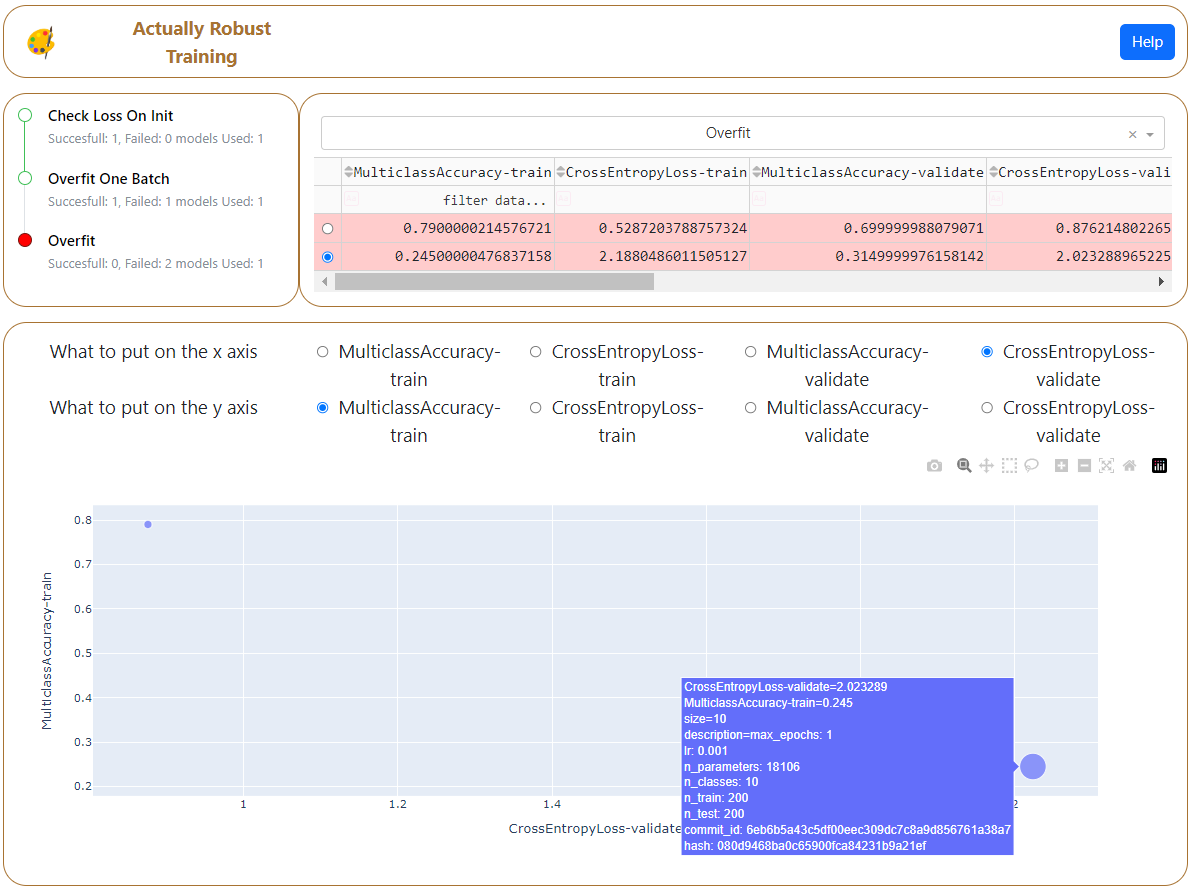
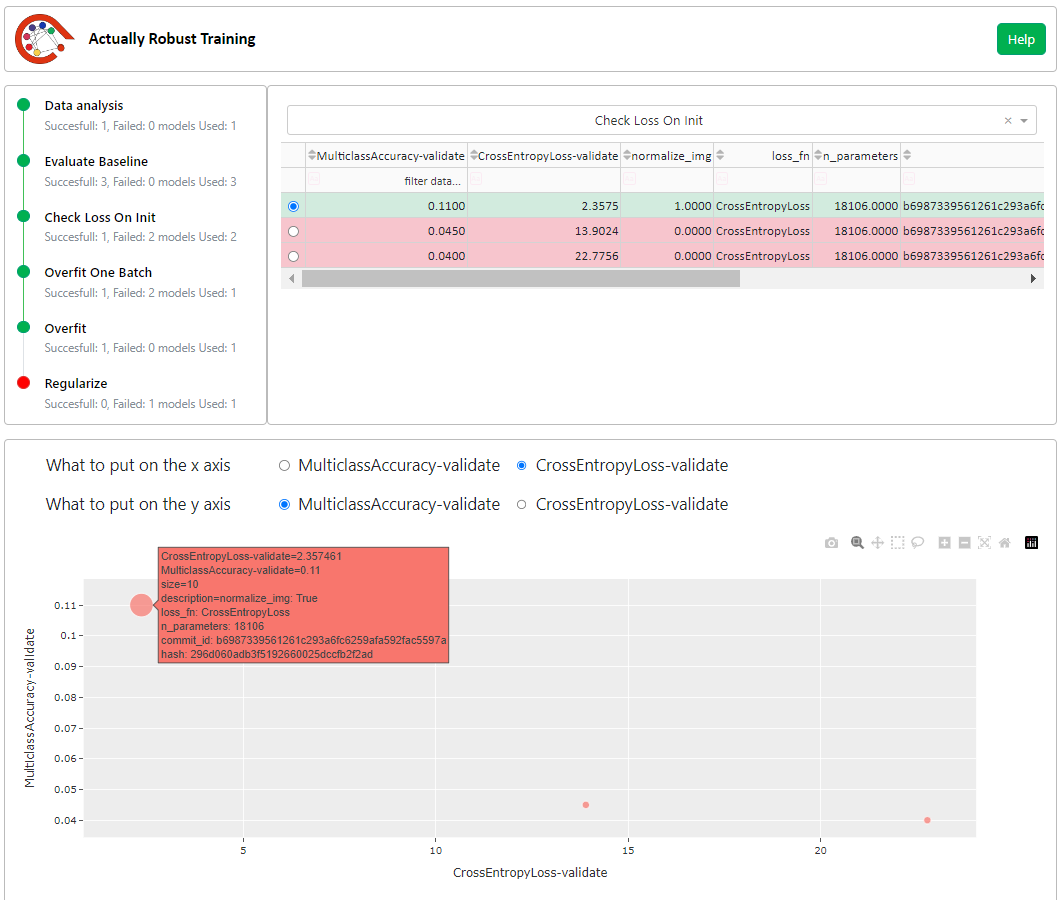
make dashboard pretty

diff --git a/art/dashboard/assets/timeline.css b/art/dashboard/assets/timeline.css
@@ -1,5 +1,11 @@
 .mantine-Timeline-itemBullet {
 
-    background-color: red;
-    border: 2px solid #7a1912;
+    background-color: #FF0000;
+    border: 2px solid #DC3230;
+}
+
+.mantine-Timeline-itemBullet[data-active="true"] {
+
+    background-color: #00B050;
+    border: 2px solid #009E73;
 }

diff --git a/art/dashboard/layout.py b/art/dashboard/layout.py
@@ -53,16 +53,17 @@ def get_navbar():
                     dbc.Row(
                         [
                             dbc.Col(
-                                html.Img(
-                                    src=get_asset_url("pallet.jpg"), height="60ex"
-                                ),
+                                html.Img(src=get_asset_url("art.png"), height="60ex"),
                                 width=3,
                             ),
                             dbc.Col(
                                 html.Div(
                                     "Actually Robust Training",
                                     className="text-xl-center fs-5 fw-bold",
-                                    style={"color": "#a87332"},
+                                    style={
+                                        "color": "#000000",
+                                        "font-family": "Calibri",
+                                    },
                                 ),
                                 width=9,
                                 align="center",
@@ -72,7 +73,12 @@ def get_navbar():
                         align="left",
                     )
                 ),
-                dbc.Button("Help", id="open", n_clicks=0),
+                dbc.Button(
+                    "Help",
+                    id="open",
+                    n_clicks=0,
+                    style={"background-color": "#00B050", "border-color": "#009E73"},
+                ),
                 dbc.Modal(
                     [
                         dbc.ModalHeader(
@@ -119,6 +125,9 @@ def get_layout(ordered_steps: List[str], timeline: dmc.Timeline) -> dbc.Containe
                                 filter_action="native",
                                 sort_action="native",
                                 sort_mode="multi",
+                                style_cell={
+                                    "font-family": "Calibri",
+                                },
                             ),
                         ],
                         style=RADIUS_AROUND_STYLE | PAD_STYLE,

diff --git a/art/dashboard/app.py b/art/dashboard/app.py
@@ -54,13 +54,13 @@ def updateTable(
             "if": {
                 "filter_query": "{successful} = 1",
             },
-            "backgroundColor": "rgba(0,255,0,0.2)",
+            "backgroundColor": "rgba(210,235,222,1)",
         },
         {
             "if": {
                 "filter_query": "{successful} = 0",
             },
-            "backgroundColor": "rgba(255,0,0,0.2)",
+            "backgroundColor": "rgba(247,197,205,1)",
         },
     ]
 
@@ -70,8 +70,12 @@ def updateTable(
         + ["timestamp"]
     )
     columnDefs = [{"name": i, "id": i} for i in ordered_names]
+
+    formatted_df = step_runs_df.applymap(
+        lambda x: "{:.4f}".format(x) if isinstance(x, (int, float)) else x
+    )
     return (
-        step_runs_df.to_dict("records"),
+        formatted_df.to_dict("records"),
         columnDefs,
         conditional,
     )
@@ -153,7 +157,12 @@ def update_figure(
         y_attr = x_attr
 
     return px.scatter(
-        step_runs_df, x=x_attr, y=y_attr, size="size", hover_data=hover_parameters_names
+        step_runs_df,
+        x=x_attr,
+        y=y_attr,
+        size="size",
+        hover_data=hover_parameters_names,
+        template="ggplot2",
     )
 
 

diff --git a/art/dashboard/const.py b/art/dashboard/const.py
@@ -5,5 +5,5 @@ PARAM_ATTR = "param_attr"
 DF = "df"
 
 
-RADIUS_AROUND_STYLE = {"border-radius": "25px", "border": "2px solid #a87332"}
+RADIUS_AROUND_STYLE = {"border-radius": "5px", "border": "2px solid #BBBBBB"}
 PAD_STYLE = {"padding": "15px"}

diff --git a/README.md b/README.md
@@ -1,10 +1,14 @@
 <p align="center"><img src="docs/art.png" alt="image" width="200" height="auto"></p>
 
-# ART - Actually Robust Training Framework
-
-![Tests](https://github.com/SebChw/art/actions/workflows/tests.yml/badge.svg)
-![Docs](
-https://readthedocs.org/projects/actually-robust-training/badge/?version=latest&style=flat)
+<p align="center">
+    <b>ART - Actually Robust Training</b>
+    <br>
+    <em>Robust, explainable, and easy to debug deep learning experiments.</em>
+</p>
+<p align="center">
+<img src="https://github.com/SebChw/art/actions/workflows/tests.yml/badge.svg" alt="Tests">
+<img src="https://readthedocs.org/projects/actually-robust-training/badge/?version=latest&style=flat" alt="Docs">
+</p>
 
 ----
 
@@ -17,14 +21,13 @@ To get the most out of ART, you should have a basic knowledge of (or eagerness t
 - PyTorch Lightning: https://lightning.ai/docs/pytorch/stable/levels/core_skills.html
 
 **Table of contents:**
-- [ART - Actually Robust Training framework](#art---actually-robust-training-framework)
-  - [Installation](#installation)
-  - [Quickstart](#quickstart)
-  - [Project creation](#project-creation)
-  - [Dashboard](#dashboard)
-  - [Tutorials](#tutorials)
-  - [API Cheatsheet](#api-cheatsheet)
-  - [Contributing](#contributing)
+- [Installation](#installation)
+- [Quickstart](#quickstart)
+- [Project creation](#project-creation)
+- [Dashboard](#dashboard)
+- [Tutorials](#tutorials)
+- [API Cheatsheet](#api-cheatsheet)
+- [Contributing](#contributing)
 
 ## Installation
 To get started, install ART package using:
